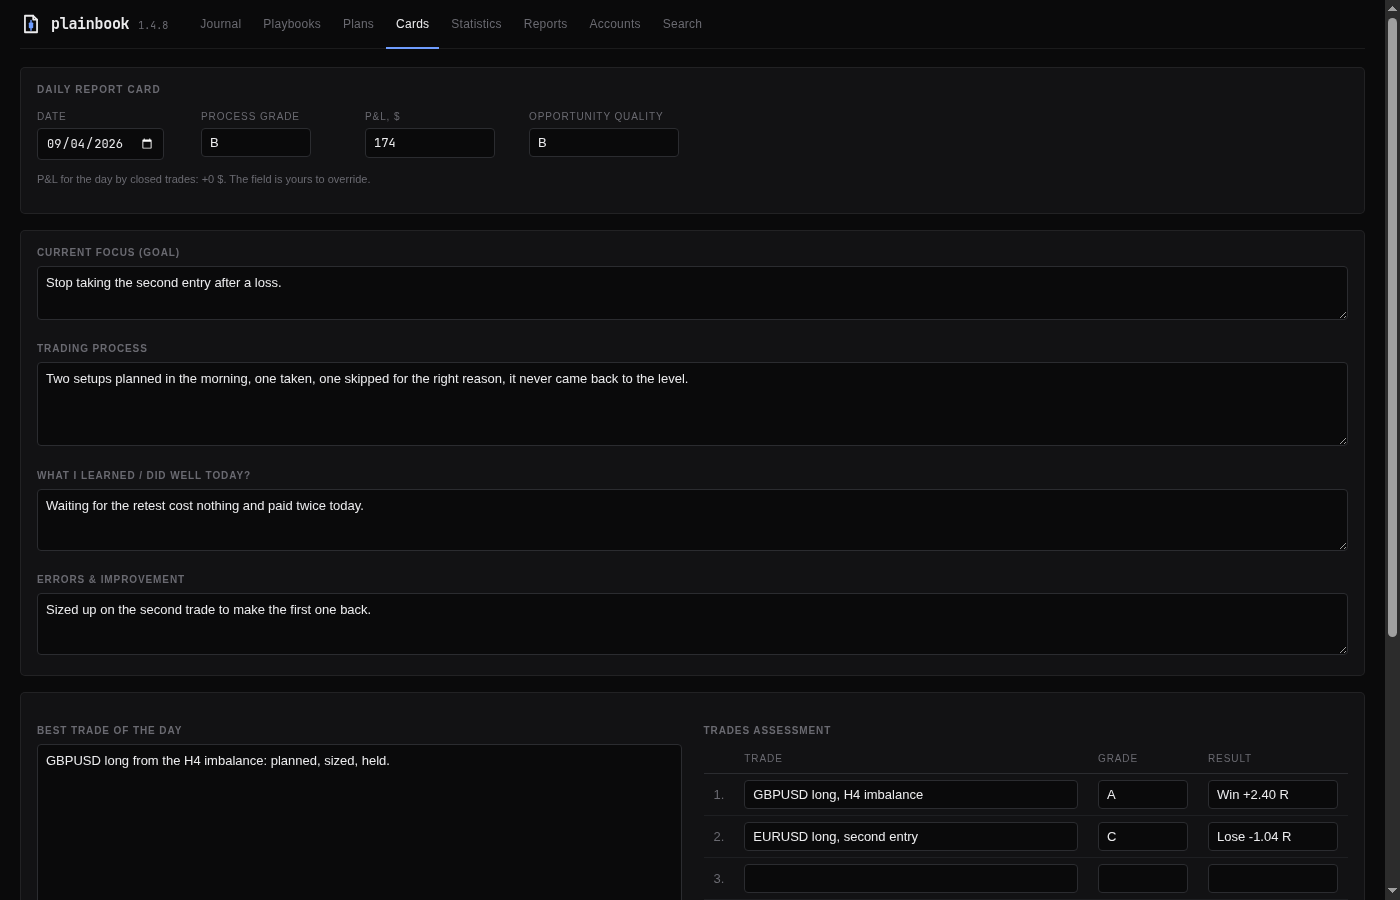
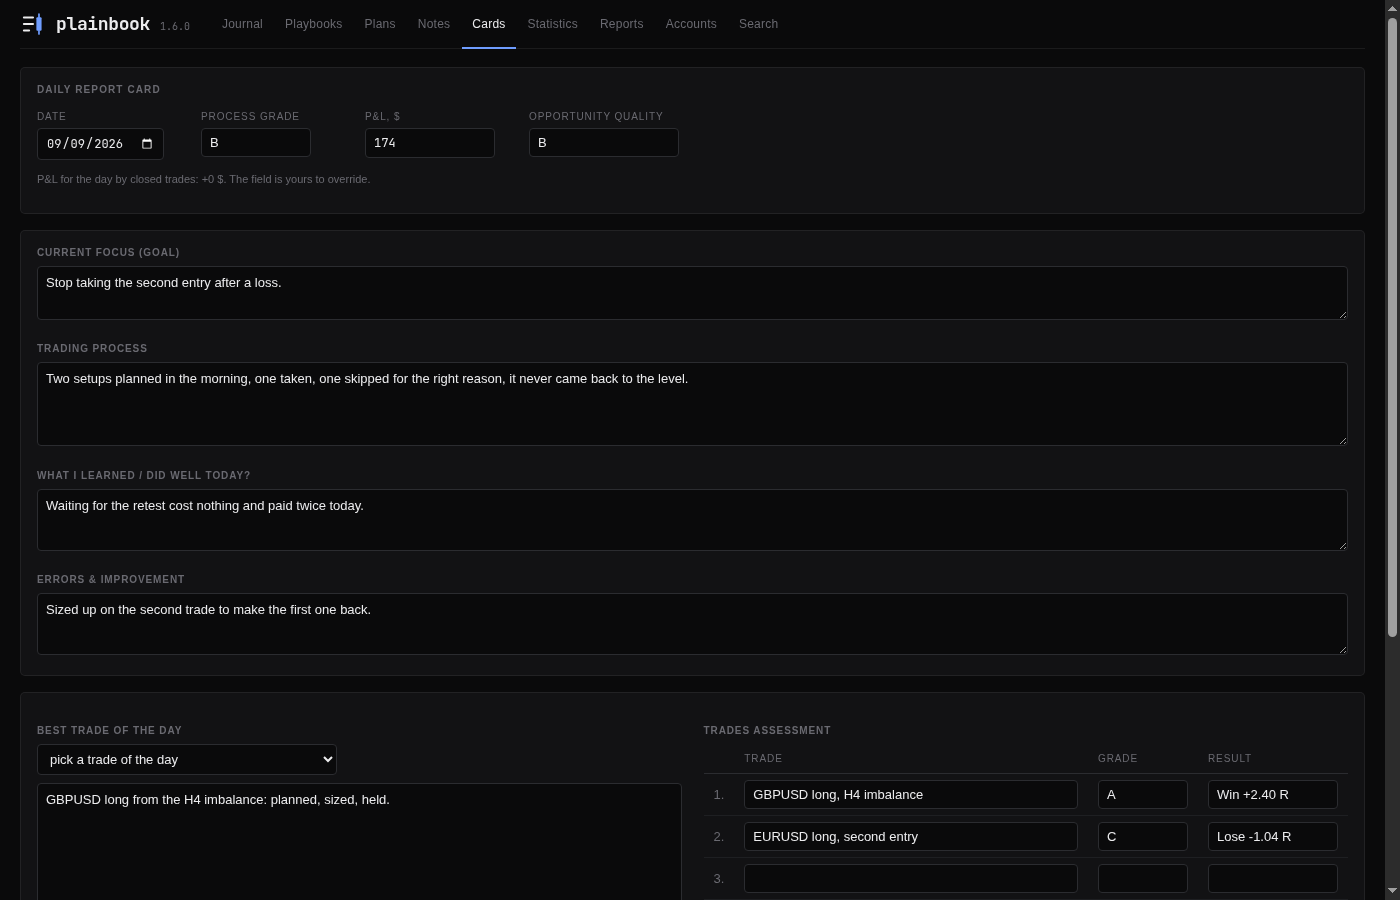
Release v1.6.0
Market notes with the trades that show them, a stop moved to breakeven that
frees its risk, the Statistics tab and the reports read at a glance, a trade
or a report as one file to show another trader, and a front page filter that
survives a trade being opened. The screenshots of the README are retaken on
the invented journal, and the figures of the project are brought up to date.

diff --git a/plainbook/__init__.py b/plainbook/__init__.py
@@ -4,4 +4,4 @@
 # the version a person has: on the front page, so that a report of a
 # problem can say which one it is about. Raised together with the heading
 # in CHANGELOG.md when a version is released.
-__version__ = "1.5.1"
+__version__ = "1.6.0"

diff --git a/README.md b/README.md
@@ -48,6 +48,11 @@ gets written down before the market says who was right. The same position taken
 on two accounts is filled in once: a duplicate goes to the second account with a
 risk of its own.
 
+**A stop moved to breakeven frees its risk.** One button on an open
+position says the stop is at the entry: the trade can no longer lose what it
+was sized for, so the daily loss limit stops counting it, and the statistics
+later say what moving the stop was worth.
+
 **The words in the form are yours.** The trading styles, the entry timeframes
 and the execution formats are lists you edit on the Accounts tab. A word taken
 out of a list only stops being offered; the trades that carry it keep it.
@@ -175,7 +180,7 @@ first place: plain files, no dependencies, a small surface.
 
 - **Nothing to resolve, nothing to build.** No package manager, no lockfile, no
   bundler. An agent that can run `python3` can run the whole project.
-- **The tests finish in about a second.** 189 of them, no fixtures, no network.
+- **The tests finish in a few seconds.** 273 of them, no fixtures, no network.
   A change can be verified in the same breath it was written.
 - **The rules are written down, not remembered.** [AGENTS.md](AGENTS.md) holds
   the map of the code, the invariants that must not be broken, recipes for the
@@ -184,7 +189,7 @@ first place: plain files, no dependencies, a small surface.
 - **A guard stands between an agent and your records.** `tools/check_public.py`
   refuses a push that would carry trade records, private paths or anything
   else it recognises as yours; it runs as a pre-push hook and in CI.
-- **The whole program is ~8 600 lines** of straightforward Python, and the
+- **The whole program is ~12 600 lines** of straightforward Python, and the
   routing table fits on one screen. It fits in a context window, so an agent
   reasons about the real thing rather than about a summary of it.
 - **One language throughout:** code, comments, documents and commit messages.
@@ -360,7 +365,7 @@ Measured on a journal of 159 trades with 363 screenshots:
 | a trade page | **2 ms**, 14 KB |
 | statistics with charts | **7 ms**, 37 KB |
 | server memory | **25 MB** |
-| the whole program | **~8 600 lines of Python** |
+| the whole program | **~12 600 lines of Python** |
 
 Pages are plain HTML rendered by one Python process: no framework, no bundler,
 no build step. The charts are SVG generated on the server. There is nothing to

diff --git a/CHANGELOG.md b/CHANGELOG.md
@@ -2,10 +2,20 @@
 
 What changed and why. Newest first.
 
-## v1.5.1, 05.09.2026
+## v1.6.0, 09.09.2026
+
+Market notes with the trades that show them, a stop moved to breakeven that
+frees its risk, the Statistics tab and the reports read at a glance, a trade
+or a report as one file to show another trader, and a front page filter that
+survives a trade being opened.
 
 ### Added
 
+- **A copy forgotten at the entry.** The **Duplicate on other accounts**
+  block of the new trade form now stands in the form of an open trade too:
+  tick the account, set the risk, and **Save** writes the copy there with the
+  idea and the screenshots as they are now. An account that already holds
+  the position says so in place of the box. A closed trade is not copied.
 - **Market notes.** A **Notes** tab, for what is about the market rather than
   about one trade: a level a pair keeps respecting, a pattern that comes back,
   a lesson wider than a day. A note is a title, a date and blocks, each a
